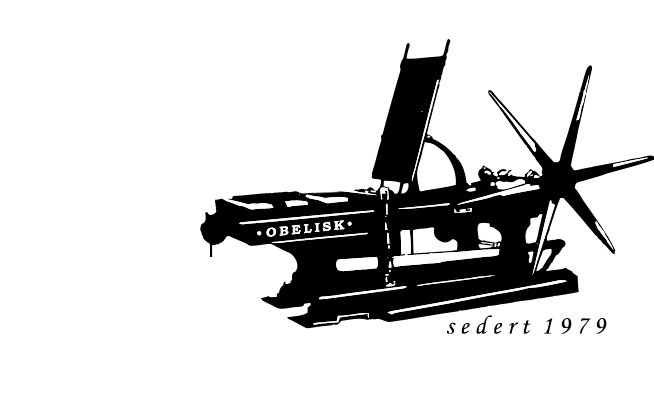
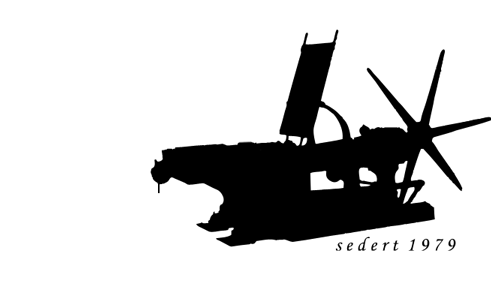
Updated after online changes

diff --git a/obelisk/style.css b/obelisk/style.css
@@ -66,6 +66,7 @@ body {
 #page {
   margin: 2em auto;
   max-width: 1000px;
+  position: relative;
 }
 
 #branding nav {
@@ -76,7 +77,7 @@ body {
   transform: rotate(2deg);
   width: 55%;
   float: right;
-  margin-right: 3em;
+  margin-right: 1.5em;
   margin-top: -300px;
   padding-top: 300px;
   position: relative;
@@ -88,6 +89,10 @@ body {
   list-style-type: none;
   margin-bottom: 2em;
 }
+#branding nav li {
+  color: #600;
+  color: rgba(150,0,0,.75);
+}
 #branding nav ul:not(.children) > li:nth-child(3n+2) {
   clear: both;
 }
@@ -98,41 +103,46 @@ body {
 #footer-icon {
   background-image: url("img/icon-base.png");
   overflow: hidden;
+  position: relative;
   text-indent: -200px;
-  position: absolute;
-  top: -30px;
-  right: 7.6%;
 }
-#footer-icon:before, #footer-icon:after {
+#footer-icon span:before, #footer-icon span:after, #footer-icon:after {
   position: absolute;
   content: "\00a0";
   top: 0;
   left: 0;
 }
-#footer-icon:before {
+#footer-icon span:before {
   background-image: url("img/icon-arm.png");
 }
-#footer-icon:hover:before {
-  -moz-transform: rotate(103deg) scaleY(0.35);
-  -webkit-transform: rotate(103deg) scaleY(0.35);
-  -o-transform: rotate(103deg) scaleY(0.35);
-  -ms-transform: rotate(103deg) scaleY(0.35);
-  transform: rotate(103deg) scaleY(0.35);
-  margin-top: -17px;
-  margin-left: 17px;
+#footer-icon:hover span:before {
+  -moz-transform: rotate(103deg) scaleY(0.5);
+  -moz-transform-origin: 50% 45%;
+  -webkit-transform: rotate(103deg) scaleY(0.5);
+  -webkit-transform-origin: 50% 45%;
+  -o-transform: rotate(103deg) scaleY(0.5);
+  -o-transform-origin: 50% 45%;
+  -ms-transform: rotate(103deg) scaleY(0.5);
+  -ms-transform-origin: 50% 45%;
+  transform: rotate(103deg) scaleY(0.5);
+  transform-origin: 50% 45%;
 }
-#footer-icon:after {
+#footer-icon span:after {
   background-image: url("img/icon-ball.png");
   margin-top: 0;
 }
-#footer-icon:hover:after {
-  margin-top: -40px;
+#footer-icon:after {
+  background-image: url("img/icon-over.png");
 }
-#footer-icon, #footer-icon:before, #footer-icon:after {
+#footer-icon:hover span:after {
+  margin-top: -30px;
+}
+#footer-icon, #footer-icon span:before, #footer-icon span:after, #footer-icon:after {
   display: block;
-  float: right;
-  height: 400px;
-  width: 654px;
+  float: right;  
+  height: 300px;
+  width: 491px;
+  background-repeat: no-repeat;
 }
 
 #primary {
@@ -360,7 +370,7 @@ body, input, textarea {
 }
 
 html {
-  background: #ddddbb url("img/background.png");
+  background: #eed url("img/back.png");
 }
 
 h1, h2, h3, h4, h5, h6 {
@@ -542,11 +552,13 @@ input#searchsubmit {
 }
 
 a {
-  color: #1982d1;
+  color: #600;
+  color: rgba(150,0,0,.75);
   text-decoration: none;
 }
 a:focus, a:active, a:hover {
-  text-decoration: underline;
+  color: #400;
+  color: rgba(100,0,0,.75);
 }
 
 .assistive-text {
@@ -575,43 +587,11 @@ a:focus, a:active, a:hover {
 }
 
 #site-title {
-  font-family: Georgia, "Times New Roman", "Bitstream Charter", Times, serif;
-  font-weight: 700;
-  letter-spacing: 0.5em;
-  margin: 2em 0 2em 3em;
-  color: rgba(0, 0, 0, 0.7);
-  text-transform: uppercase;
-  float: left;
+  position: absolute;
+  width: 400px;
+  height: 300px;
+  overflow: hidden;
 }
-#site-title span {
-  -moz-transform: matrix(0.9, -0.1, 0, 1.2, -0.2em, 0.3em);
-  -webkit-transform: matrix(0.9, -0.1, 0, 1.2, -0.2em, 0.3em);
-  -o-transform: matrix(0.9, -0.1, 0, 1.2, -0.2em, 0.3em);
-  -ms-transform: matrix(0.9, -0.1, 0, 1.2, -0.2em, 0.3em);
-  transform: matrix(0.9, -0.1, 0, 1.2, -0.2em, 0.3em);
-  border-top: 2px solid black;
-  border-color: rgba(0, 0, 0, 0.7);
-  font-size: 2.4em;
-  line-height: 1.2;
-  padding: 0 0.2em;
-}
-#site-title span:before, #site-title span:after {
-  content: "•";
-  padding: 0 0.2em;
-}
-#site-title a {
-  color: rgba(0, 0, 0, 0.7);
-  border-bottom: 2px solid black;
-  border-color: rgba(0, 0, 0, 0.7);
-  text-decoration: none;
-  padding: 0 0.2em;
-  margin: 0;
-  position: relative;
-}
-#site-title a:hover {
-  color: rgba(0, 0, 0, 0.5);
-}
-
 #site-description {
   color: #7a7a7a;
   font-size: 14px;
@@ -682,7 +662,7 @@ a:focus, a:active, a:hover {
  *----------------------------------------------- */
 #main {
   clear: both;
-  padding: 1.625em 0 0;
+  padding: 1.625em 0;
 }
 
 .page-title {
@@ -2240,18 +2220,26 @@ p.comment-form-comment {
 /* =Footer
  *----------------------------------------------- */
 #colophon {
+  bottom: -7em;
   clear: both;
-  position: relative;
-  padding: 2em 7.6% 2em;
-  min-height: 260px;
-  width: 700px;
-  left: 175px;
-  top: 1em;
+  left: -1em;
+  padding: 52em 7.6% 2em;
+  position: absolute;
+  width: 800px;
+  z-index: -1;
   -moz-transform: rotate(-1deg);
   -webkit-transform: rotate(-1deg);
   -o-transform: rotate(-1deg);
   -ms-transform: rotate(-1deg);
   transform: rotate(-1deg);
+}
+
+#colophon > p {
+  text-transform: lowercase;
+}
+
+#colophon > p > b {
+  font-size: 88%;
 }
 
 #supplementary {
@@ -2733,10 +2721,10 @@ p.comment-form-comment {
 }
 
 .grain, .contentPaper, #branding nav, #page, #respond, #colophon {
[1 lines of base64/hex data omitted]
+  background-image: url('img/back.png');
 }
 
-.smooth, #footer-icon:before, #footer-icon:after {
+.smooth, #footer-icon span:before, #footer-icon span:after {
   -moz-transition-property: all;
   -webkit-transition-property: all;
   -o-transition-property: all;
@@ -2748,5 +2736,9 @@ p.comment-form-comment {
 }
 
 .contentPaper, #branding nav, #page, #respond, #colophon {
-  background-color: #eeeedd;
+  background-color: #ffe;
+}
+img.ngg-singlepic {
+  padding: 0;
+  background: transparent;
 }

diff --git a/obelisk/footer.php b/obelisk/footer.php
@@ -9,7 +9,7 @@
  * @since Twenty Eleven 1.0
  */
 ?>
-
+	<div style="clear:both">&nbsp;</div>
 	</div><!-- #main -->
 
 	<footer id="colophon" role="contentinfo">
@@ -22,14 +22,8 @@
 				get_sidebar( 'footer' );
 		?>
 
-        <p>Steendrukkerij Obelisk<br /> 
-           Hefswalsterweg <b>12</b><br /> 
-           <b>9982</b> TR<br /> 
-           Uithuizermeeden<br /> 
-           tel: <b>(0031) 0595 413526</b></p>
+        <p>Steendrukkerij Obelisk, Hefswalsterweg <b>12</b>, <b>9982</b> TR, Uithuizermeeden, tel: <b>(0031) 0595 413526</b></p>
 
-        <a id="footer-icon" href="<?php echo esc_url( home_url( '/' ) ); ?>" title="<?php echo esc_attr( get_bloginfo( 'name', 'display' ) ); ?>" rel="home"><?php bloginfo( 'name' ); ?></a>
-	
 	</footer><!-- #colophon -->
 </div><!-- #page -->
 

diff --git a/obelisk/header.php b/obelisk/header.php
@@ -80,7 +80,7 @@
 <body <?php body_class(); ?>>
 <div id="page" class="hfeed">
 	<header id="branding" role="banner">
-		<h1 id="site-title"><span><a href="<?php echo esc_url( home_url( '/' ) ); ?>" title="<?php echo esc_attr( get_bloginfo( 'name', 'display' ) ); ?>" rel="home"><?php bloginfo( 'name' ); ?></a></span></h1>
+		<h1 id="site-title"><a id="obelisk" href="<?php echo esc_url( home_url( '/' ) ); ?>" title="<?php echo esc_attr( get_bloginfo( 'name', 'display' ) ); ?>" rel="home"><span><?php bloginfo( 'name' ); ?></span></a></h1>
 <!--
 		<hgroup>
 				<h2 id="site-description"><?php bloginfo( 'description' ); ?></h2>

diff --git a/obelisk/functions.php b/obelisk/functions.php
@@ -1,0 +1,9 @@
+<?
+
+// add a favicon to your site
+function blog_favicon() {
+	echo '<link rel="Shortcut Icon" type="image/x-icon" href="'.get_bloginfo('stylesheet_directory').'/favicon.ico" />' . "\n";
+}
+add_action('wp_head', 'blog_favicon');
+
+?>
